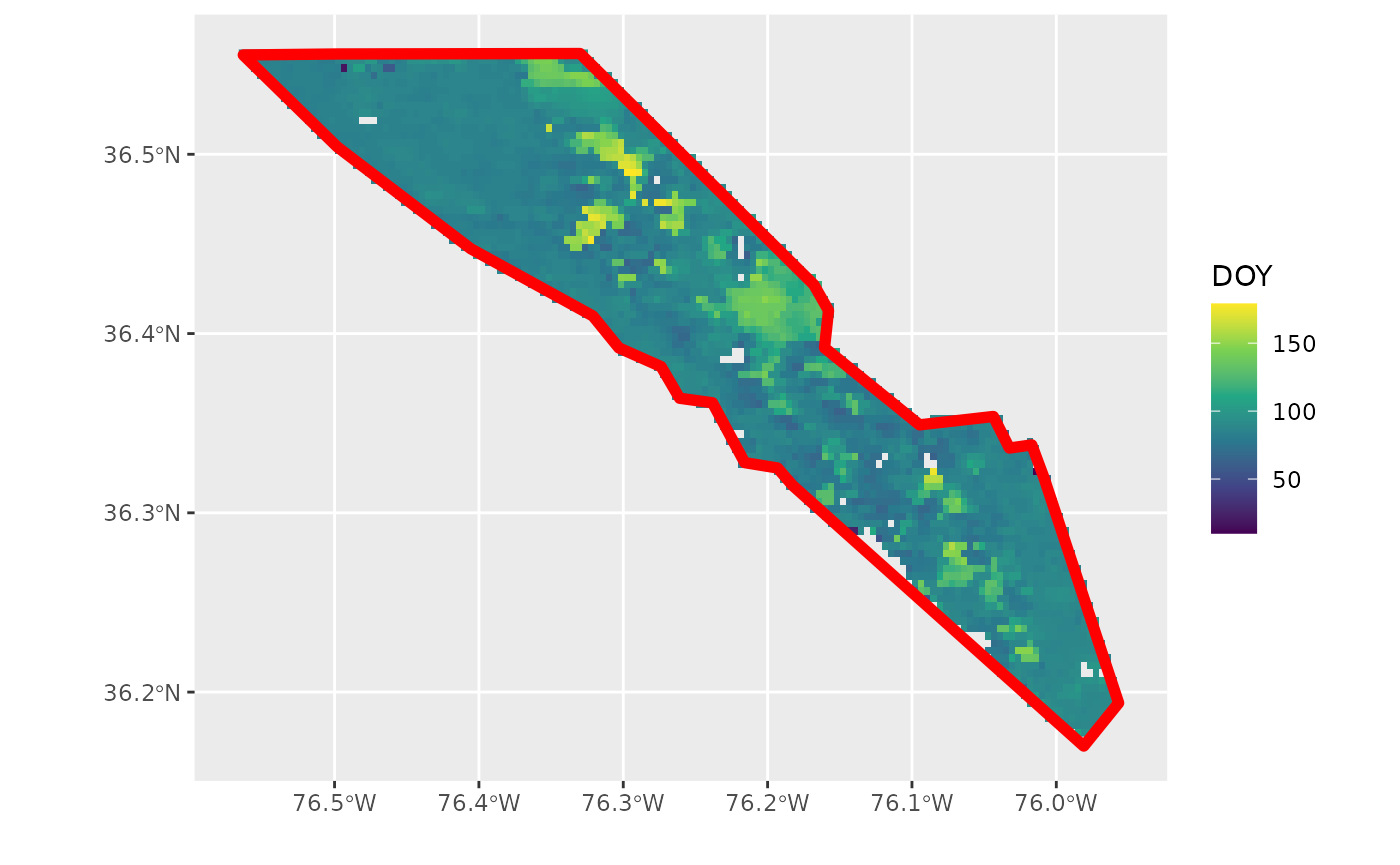
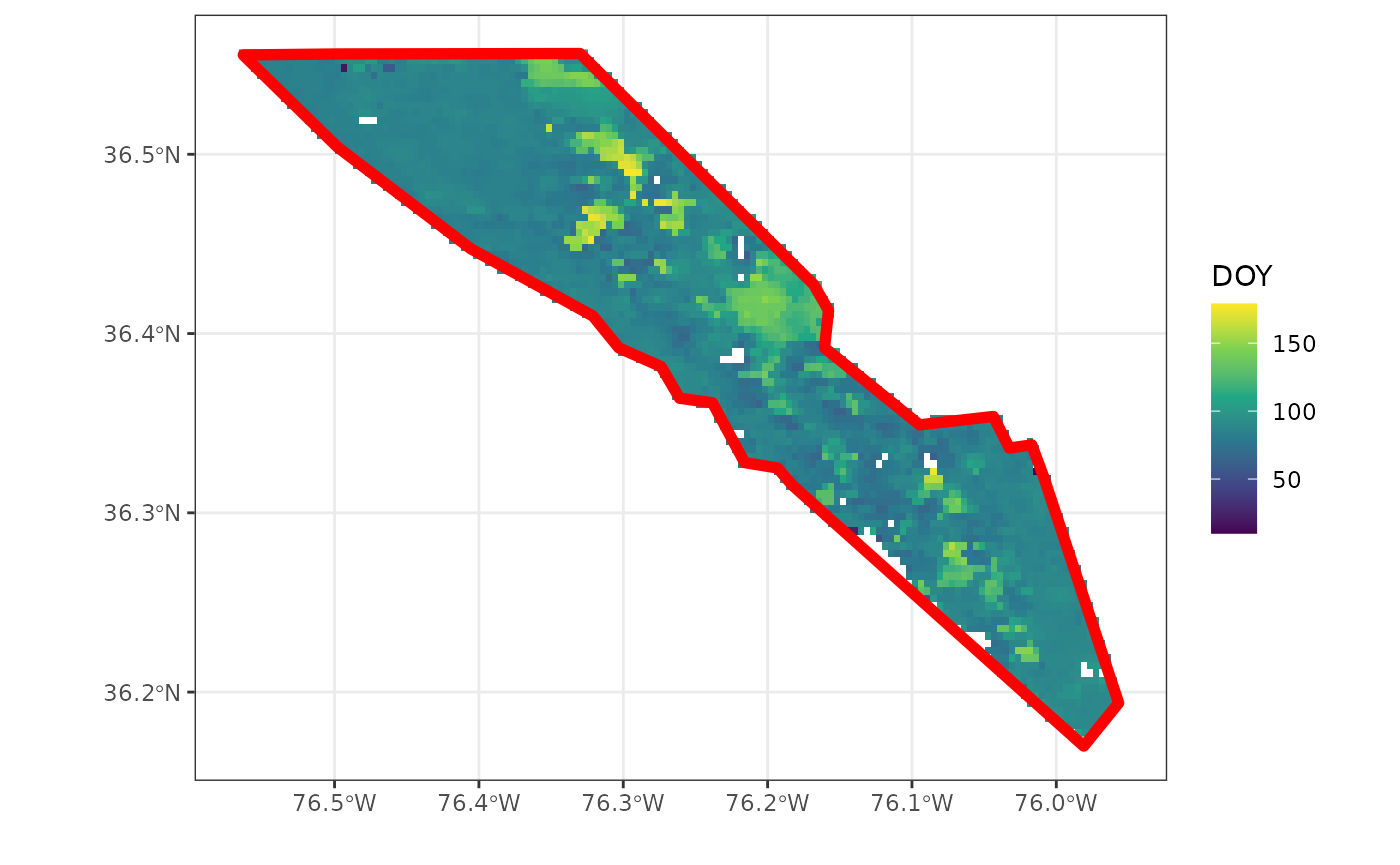
Deploying to gh-pages from @ bluegreen-labs/appeears@f65eb5e9d9f56fb9db15b0336f2f8d632bcca866 🚀

diff --git a/articles/appeears_vignette.html b/articles/appeears_vignette.html
@@ -447,7 +447,8 @@ as provided by the AppEEARS API.</p>
 <span>    fill <span class="op">=</span> <span class="cn">NA</span>,</span>
 <span>    colour <span class="op">=</span> <span class="st">"red"</span>,</span>
 <span>    lwd <span class="op">=</span> <span class="fl">2</span></span>
-<span>    <span class="op">)</span></span></code></pre></div>
+<span>    <span class="op">)</span> <span class="op">+</span></span>
+<span>  <span class="fu"><a href="https://ggplot2.tidyverse.org/reference/ggtheme.html" class="external-link">theme_bw</a></span><span class="op">(</span><span class="op">)</span></span></code></pre></div>
 <p><img src="appeears_vignette_files/figure-html/unnamed-chunk-10-1.png" width="700"></p>
 </div>
 <div class="section level4">
@@ -540,7 +541,8 @@ as provided by the AppEEARS API.</p>
 <span>    x <span class="op">=</span> <span class="st">""</span>,</span>
 <span>    y <span class="op">=</span> <span class="st">""</span></span>
 <span>  <span class="op">)</span> <span class="op">+</span></span>
-<span>  <span class="fu"><a href="https://ggplot2.tidyverse.org/reference/scale_viridis.html" class="external-link">scale_fill_viridis_c</a></span><span class="op">(</span><span class="op">)</span></span>
+<span>  <span class="fu"><a href="https://ggplot2.tidyverse.org/reference/scale_viridis.html" class="external-link">scale_fill_viridis_c</a></span><span class="op">(</span><span class="op">)</span> <span class="op">+</span></span>
+<span>  <span class="fu"><a href="https://ggplot2.tidyverse.org/reference/ggtheme.html" class="external-link">theme_bw</a></span><span class="op">(</span><span class="op">)</span></span>
 <span></span>
 <span><span class="va">p2</span> <span class="op">&lt;-</span> <span class="fu"><a href="https://ggplot2.tidyverse.org/reference/ggplot.html" class="external-link">ggplot</a></span><span class="op">(</span><span class="op">)</span> <span class="op">+</span></span>
 <span>  <span class="fu"><a href="https://ggplot2.tidyverse.org/reference/geom_tile.html" class="external-link">geom_raster</a></span><span class="op">(</span></span>
@@ -555,7 +557,8 @@ as provided by the AppEEARS API.</p>
 <span>    x <span class="op">=</span> <span class="st">""</span>,</span>
 <span>    y <span class="op">=</span> <span class="st">""</span></span>
 <span>  <span class="op">)</span> <span class="op">+</span></span>
-<span>  <span class="fu"><a href="https://ggplot2.tidyverse.org/reference/scale_viridis.html" class="external-link">scale_fill_viridis_c</a></span><span class="op">(</span><span class="op">)</span></span>
+<span>  <span class="fu"><a href="https://ggplot2.tidyverse.org/reference/scale_viridis.html" class="external-link">scale_fill_viridis_c</a></span><span class="op">(</span><span class="op">)</span> <span class="op">+</span></span>
+<span>  <span class="fu"><a href="https://ggplot2.tidyverse.org/reference/ggtheme.html" class="external-link">theme_bw</a></span><span class="op">(</span><span class="op">)</span></span>
 <span></span>
 <span><span class="co"># patchwork side by side plot</span></span>
 <span><span class="va">p</span> <span class="op">|</span> <span class="va">p2</span></span></code></pre></div>
